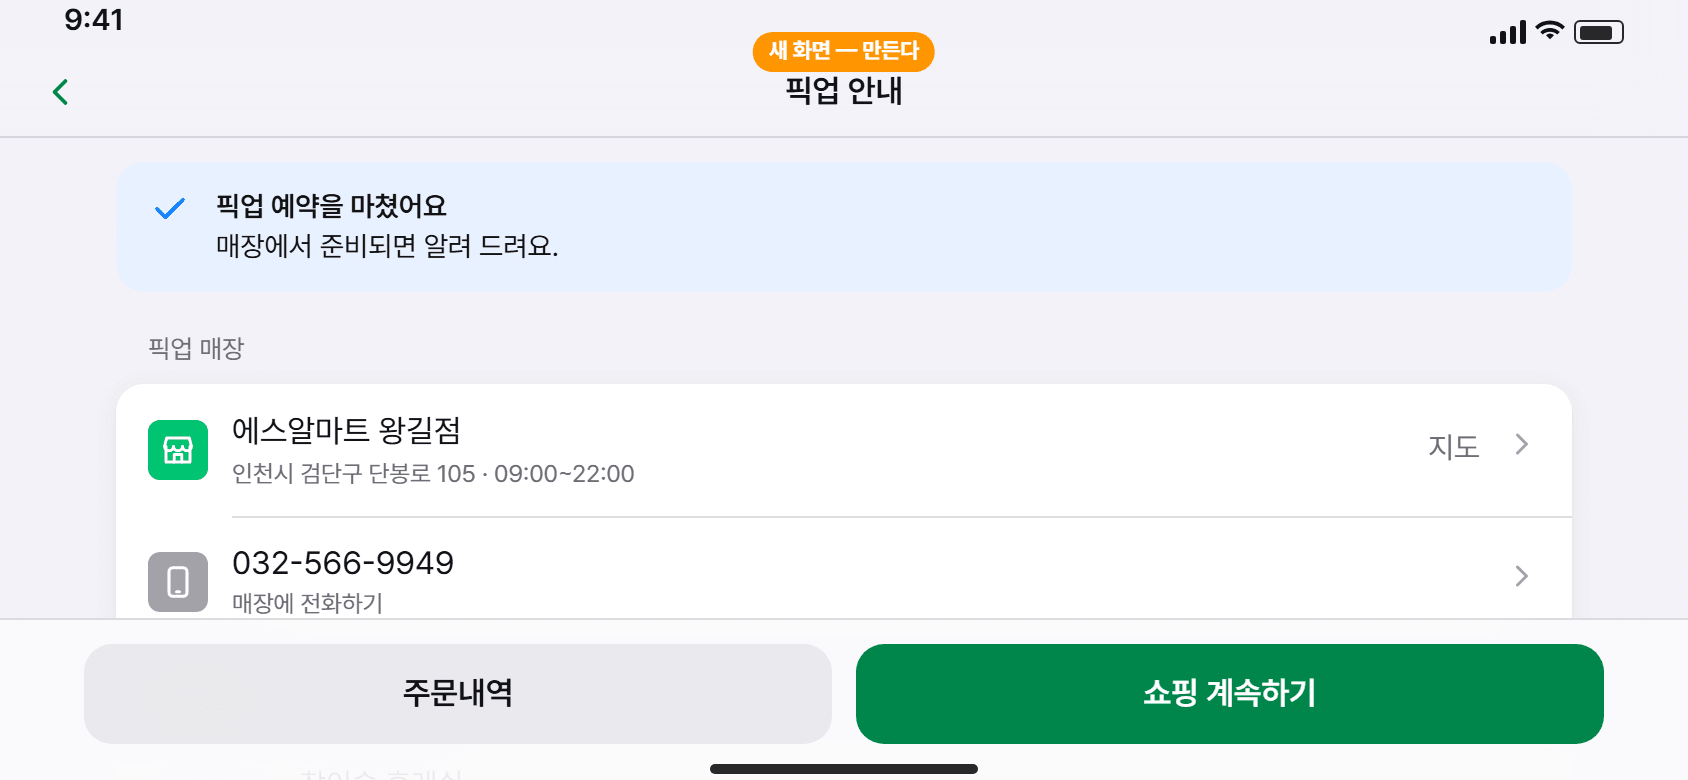
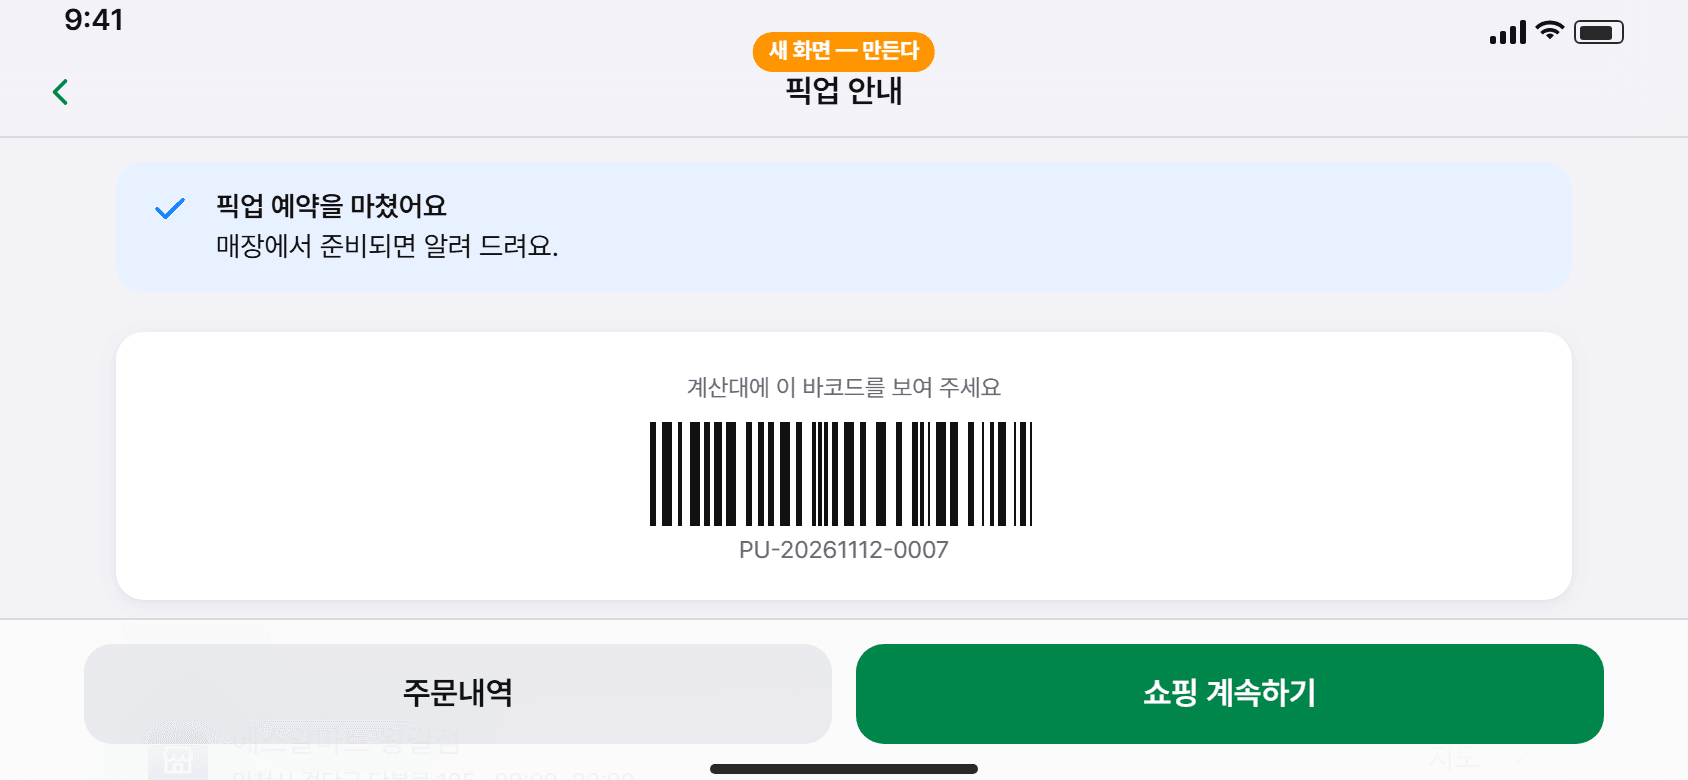
docs(shop): 목업 정본 v1 승인 — 문서의 「승인 전」을 고치고 S52·S53 목업 사진을 다시 찍었다 (2026-11-12 밤 지시 2)
- 목업 커밋 e6ec251(태그 mockup-v1-approved-20261112): S52 참이슬 2병 7,800원·합계 51,700원,
  S53 픽업 바코드를 상단 안내 바로 밑(다섯 크기 모두 첫 화면).
- docs/shots/mockup: S52·S53 다섯 크기 × 밝게·어둡게 다시 찍음. check-mockup 전부 통과(오류·넘침·가림 0).
- SHOP_APP_PLAN · SHOP_PROGRESS · SHOP_DESIGN_TOKENS: 승인 전 → 정본 v1 승인.

diff --git a/docs/SHOP_PROGRESS.md b/docs/SHOP_PROGRESS.md
@@ -3,9 +3,9 @@
 > 화면ID는 `docs/SHOP_SCREENS.md` 와 같다(S01~S53) + 목업의 확정 화면(P01~P05) + 대표님 「결정」 기록(D01 — 버튼 초록 B 확정).
 > **2차(2026-11-11) 대표님 결정 2~8 을 목업에 반영했다.**
 > **3차(2026-11-12) P01~P05 확정** — P01 이 S14·S16, P02 가 S20, P05 가 S01 을 **대신**한다(옛 화면은 목업에서 뺐고,
-> 아래 표의 그 줄은 상태 `대체됨` 으로 남긴다). 대응표는 `docs/SHOP_SCREENS.md` 「확정 화면 대응표」. 목업 전체는 아직 최종 승인 전.
-> **1단계(2026-11-11)는 「목업 반영」 칸만 채웠다.** 목업은 대표님 승인 전까지 정본이 아니다 —
-> 승인 전에는 앱 코드(src)를 고치지 않는다.
+> 아래 표의 그 줄은 상태 `대체됨` 으로 남긴다). 대응표는 `docs/SHOP_SCREENS.md` 「확정 화면 대응표」. **2026-11-12 목업 정본 v1 승인**(목업 태그 `mockup-v1-approved-20261112`).
+> **1단계(2026-11-11)는 「목업 반영」 칸만 채웠다.** 목업은 2026-11-12 정본 v1 로 승인됐다 —
+> 이제 `SHOP_APP_PLAN.md` 순서대로 앱 코드(src)에 옮긴다.
 
 ## 칸의 뜻
 

diff --git a/docs/SHOP_DESIGN_TOKENS.md b/docs/SHOP_DESIGN_TOKENS.md
@@ -1,10 +1,10 @@
-# 쇼핑앱 디자인 토큰 (1단계 목업 기준 — 🔴 승인 전, 정본 아님)
+# 쇼핑앱 디자인 토큰 (목업 정본 v1 기준 — 2026-11-12 승인)
 
 > 원본은 **`C:\srmart\srmart-shop-mockup\index.html` 맨 위 `:root`** 다. 이 표는 그 값을 옮겨 적은 것이다.
 > 둘이 다르면 목업이 맞다 — 고칠 때는 **둘을 같이** 고친다.
 > 앱(src)에 옮길 때는 **이름을 그대로** 쓴다(`--brand`, `--sp-4` …). 화면 코드에 색·숫자를 직접 적지 않는다.
 
-- 작성: 2026-11-11 · 대표님 승인 전까지 앱 코드에 반영하지 않는다.
+- 작성: 2026-11-11 · 2026-11-12 목업 정본 v1 승인 — 앱 코드에 반영한다(묶음 1).
 - 다크: **기기 설정 자동**(`prefers-color-scheme`) + **수동**(`html[data-theme="light"|"dark"]`). 수동이 없으면 자동.
 - 화면 모드 고르기는 「자동 / 밝게 / 어둡게」 세 칸 하나(제안 — 지금 앱은 스위치 + 「시스템 설정 따르기」 두 개).
 

diff --git a/docs/SHOP_APP_PLAN.md b/docs/SHOP_APP_PLAN.md
@@ -1,4 +1,4 @@
-# 쇼핑앱 — 목업 승인 뒤 앱 코드 반영 순서 (2026-11-12 작성 · 🔴 목업 승인 전이라 아직 시작하지 않는다)
+# 쇼핑앱 — 목업 승인 뒤 앱 코드 반영 순서 (2026-11-12 작성 · ✅ 목업 정본 v1 승인 2026-11-12 — 묶음 1부터 시작)
 
 > 목업(`C:\srmart\srmart-shop-mockup\index.html`)이 최종 승인되면 **이 순서대로 묶음 하나씩** 앱(`src/`)에 넣는다.
 > 묶음마다 ⑴ 앱 코드 → ⑵ `npm run build` → ⑶ 비교 사진 → ⑷ 진행표(`SHOP_PROGRESS.md`) 「앱 반영」·「상태」 순으로 끝낸다.
